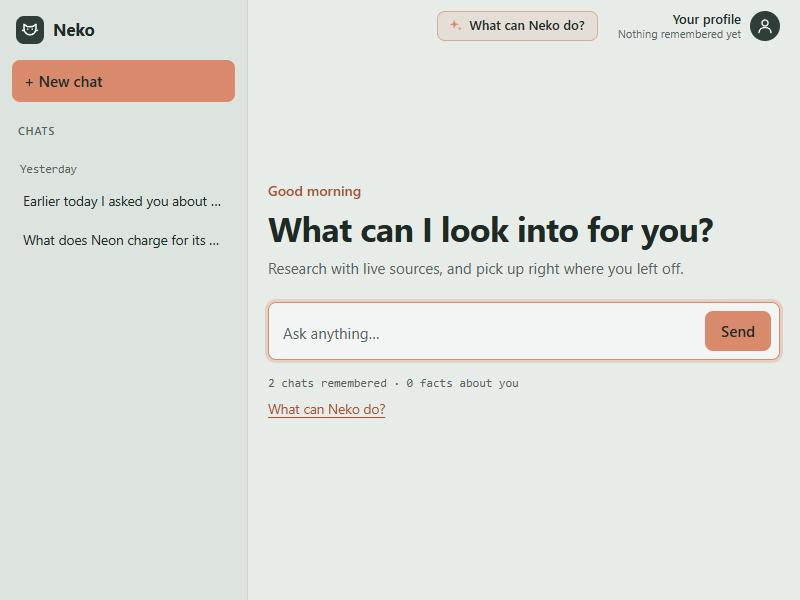
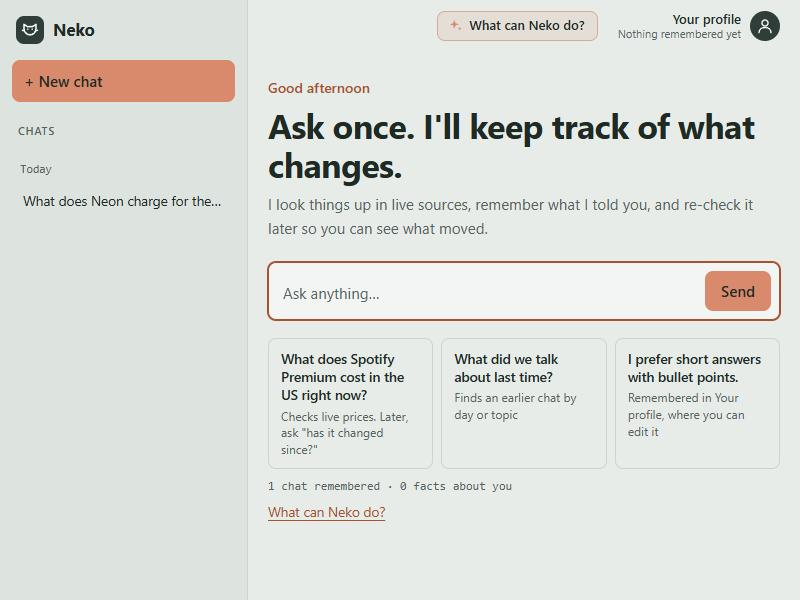
UX Phase 1: truthful storage copy, starter prompts, phone and keyboard fixes
- Help panel now says chats live on Neko's server under an anonymous,
  browser-tied account, and how to delete them (it said "this computer").
- Three one-click starter prompts on the landing screen (live price,
  memory, personal preference) and a headline that leads with
  "Ask once. I'll keep track of what changes."
- Phones: 44 px touch targets, drawer fully on-screen at 375 px and out
  of the tab order when closed, avatar-only header, top-aligned hero.
- Visible :focus-visible ring in both themes, labelled message box,
  aria-expanded and Escape on the drawer, a real <main> landmark,
  chat title as h1, prefers-reduced-motion respected.

axe-core: 0 issues across landing, chat, drawer and dialogs at 1280
and 375 px, light and dark. npm test (145) and typecheck pass.

diff --git a/public/style.css b/public/style.css
@@ -8,6 +8,7 @@
   --b-unv-bg: #dde3df; --b-unv-fg: #3f4d46; --b-none-bg: #d6e2ea; --b-none-fg: #26414f;
   --font: Inter, ui-sans-serif, system-ui, -apple-system, "Segoe UI", Roboto, "Helvetica Neue", sans-serif;
   --mono: ui-monospace, "SF Mono", Menlo, Consolas, monospace;
+  --focus: #a8512f; /* focus ring: 3:1 or more against every light surface */
   --r: 8px;
 }
 :root[data-theme="dark"] {
@@ -16,10 +17,14 @@
   --accent: #d98a6c; --accent-fg: #141a17; --link: #e8a58a; --user: #3a5046; --user-fg: #f2f5f3; --err: #f2998e;
   --b-changed-bg: #4a2e1f; --b-changed-fg: #f2b79b; --b-same-bg: #1f3a2c; --b-same-fg: #a7e3bd;
   --b-unv-bg: #26302b; --b-unv-fg: #b4c2ba; --b-none-bg: #1c2f3b; --b-none-fg: #9cc9e0;
+  --focus: #e8a58a;
 }
 * { box-sizing: border-box; }
 body { margin: 0; height: 100vh; background: var(--bg); color: var(--fg); font: 15px/1.6 var(--font); -webkit-font-smoothing: antialiased; }
 button { font: inherit; color: inherit; cursor: pointer; }
+/* Keyboard focus: one clear ring on every control, in both themes (WCAG 2.4.7). Mouse clicks don't show it. */
+:focus-visible { outline: 2px solid var(--focus); outline-offset: 2px; }
+.sr-only { position: absolute; width: 1px; height: 1px; padding: 0; margin: -1px; overflow: hidden; clip: rect(0 0 0 0); white-space: nowrap; border: 0; }
 #app { display: flex; height: 100%; }
 
 /* ---- sidebar ---- */
@@ -43,14 +48,14 @@ button { font: inherit; color: inherit; cursor: pointer; }
 .row-action:hover { color: var(--fg); background: var(--line); }
 .row:hover .row-action, .row:focus-within .row-action, .row.active .row-action { display: block; }
 @media (hover: none) { .row-action { display: block; } }
-.rename { flex: 1; min-width: 0; font: inherit; font-size: 13.5px; padding: 6px 9px; border: 1px solid var(--accent); border-radius: var(--r); background: var(--card); color: var(--fg); outline: none; }
+.rename { flex: 1; min-width: 0; font: inherit; font-size: 13.5px; padding: 6px 9px; border: 1px solid var(--accent); border-radius: var(--r); background: var(--card); color: var(--fg); }
 .empty-note { color: var(--muted); font-size: 13px; padding: 8px 10px; }
 
 /* ---- main column ---- */
 #main { position: relative; flex: 1; min-width: 0; display: flex; flex-direction: column; align-items: center; height: 100%; }
 #topbar { width: 100%; flex: none; height: 52px; display: flex; align-items: center; gap: 10px; padding: 0 14px 0 16px; background: var(--bg); border-bottom: 1px solid var(--line); }
 #menu { display: none; border: 0; background: transparent; font-size: 20px; padding: 2px 8px; }
-#chat-title { flex: 1; min-width: 0; font-weight: 600; font-size: 14px; white-space: nowrap; overflow: hidden; text-overflow: ellipsis; }
+#chat-title { flex: 1; min-width: 0; margin: 0; font-weight: 600; font-size: 14px; line-height: 1.6; white-space: nowrap; overflow: hidden; text-overflow: ellipsis; }
 #open-profile { display: flex; align-items: center; gap: 9px; border: 0; background: transparent; padding: 4px 6px 4px 10px; border-radius: var(--r); }
 #open-profile:hover { background: var(--hover); }
 .who { display: flex; flex-direction: column; align-items: flex-end; line-height: 1.2; }
@@ -65,21 +70,30 @@ button { font: inherit; color: inherit; cursor: pointer; }
 
 #log { flex: 1; overflow-y: auto; width: 100%; max-width: 780px; padding: 18px 20px 12px; order: 1; }
 #form { order: 2; width: min(780px, calc(100% - 40px)); margin: 0 auto 6px; display: flex; align-items: flex-end; gap: 8px; padding: 8px 8px 8px 14px; background: var(--card); border: 1px solid var(--line); border-radius: var(--r); }
-#form:focus-within { border-color: var(--accent); box-shadow: 0 0 0 3px color-mix(in srgb, var(--accent) 28%, transparent); }
-textarea { flex: 1; resize: none; border: 0; outline: 0; background: transparent; color: var(--fg); font: inherit; max-height: 180px; padding: 6px 0; }
+#form:focus-within { border-color: var(--focus); box-shadow: 0 0 0 1px var(--focus); }
+#form textarea:focus-visible { outline: none; } /* the whole box shows the ring instead */
+textarea { flex: 1; resize: none; border: 0; background: transparent; color: var(--fg); font: inherit; max-height: 180px; padding: 6px 0; }
 textarea::placeholder { color: var(--muted); }
 #send { border: 0; border-radius: var(--r); background: var(--accent); color: var(--accent-fg); font-weight: 600; padding: 8px 16px; }
 #send:disabled { opacity: 0.45; cursor: default; }
-#status-line { order: 3; display: none; width: min(680px, calc(100% - 40px)); margin: 10px 0 0; font: 12px var(--mono); color: var(--muted); }
+#status-line { order: 4; display: none; width: min(680px, calc(100% - 40px)); margin: 10px 0 0; font: 12px var(--mono); color: var(--muted); }
 
 #main.empty { justify-content: center; }
 #main.empty #topbar { position: absolute; top: 0; left: 0; right: 0; background: transparent; border-bottom-color: transparent; }
 #main.empty #chat-title { visibility: hidden; } /* keeps its space, so the buttons stay at the right */
 #main.empty #landing { display: block; }
 #main.empty #status-line { display: block; }
+#main.empty #starters { display: grid; }
 #main.empty #log { display: none; }
 #main.empty #form { width: min(680px, calc(100% - 40px)); }
 #main:not(.empty) #form { margin-bottom: 16px; }
+
+/* ---- starter prompts: one click sends; each shows a different thing Neko does ---- */
+#starters { order: 3; display: none; grid-template-columns: repeat(3, minmax(0, 1fr)); gap: 8px; width: min(680px, calc(100% - 40px)); margin: 12px 0 0; }
+.starter { display: flex; flex-direction: column; gap: 4px; min-height: 44px; padding: 10px 12px; text-align: left; border: 1px solid var(--line); border-radius: var(--r); background: transparent; }
+.starter:hover { background: var(--card); border-color: color-mix(in srgb, var(--accent) 55%, var(--line)); }
+.st-q { font-size: 13.5px; font-weight: 600; line-height: 1.35; }
+.st-hint { font-size: 12px; line-height: 1.4; color: var(--muted); }
 
 /* ---- messages: your question is a bubble on the right; the answer is a card with its evidence underneath ---- */
 .day { text-align: center; color: var(--muted); font: 12px var(--mono); margin: 16px 0 12px; }
@@ -116,7 +130,7 @@ textarea::placeholder { color: var(--muted); }
 .features h3 { margin: 0 0 3px; font-size: 14.5px; font-weight: 600; }
 .features p { margin: 0; font-size: 13.5px; line-height: 1.6; color: var(--muted); }
 .features .badge { font-size: 11px; margin-right: 2px; }
-.link-btn { order: 4; display: none; width: min(680px, calc(100% - 40px)); margin: 8px 0 0; padding: 0; border: 0; background: transparent; color: var(--link); font-size: 13.5px; text-align: left; text-decoration: underline; text-underline-offset: 3px; }
+.link-btn { order: 5; display: none; width: min(680px, calc(100% - 40px)); margin: 8px 0 0; padding: 0; border: 0; background: transparent; color: var(--link); font-size: 13.5px; text-align: left; text-decoration: underline; text-underline-offset: 3px; }
 #main.empty .link-btn { display: block; }
 /* the "What can Neko do?" pill in the top bar: a soft accent tint and a sparkle, so it invites a click */
 .pill-btn { flex: none; display: inline-flex; align-items: center; gap: 6px; height: 30px; padding: 0 12px 0 10px; border-radius: var(--r); border: 1px solid color-mix(in srgb, var(--accent) 55%, var(--line)); background: color-mix(in srgb, var(--accent) 14%, transparent); color: var(--fg); font-size: 13px; font-weight: 600; white-space: nowrap; }
@@ -136,7 +150,7 @@ textarea::placeholder { color: var(--muted); }
 .pf-row { display: flex; align-items: center; gap: 8px; padding: 6px 0; border-top: 1px solid var(--line); }
 .pf-key { width: 110px; flex: none; font-size: 13px; color: var(--muted); }
 .pf-row input { flex: 1; min-width: 0; border: 1px solid transparent; border-radius: 6px; padding: 6px 8px; background: transparent; color: var(--fg); font: inherit; }
-.pf-row input:hover, .pf-row input:focus { border-color: var(--line); outline: 0; }
+.pf-row input:hover, .pf-row input:focus { border-color: var(--line); }
 .pf-del { border: 0; background: transparent; color: var(--muted); font-size: 18px; padding: 0 6px; }
 .pf-del:hover { color: var(--err); }
 .dlg-foot { margin-top: 14px; text-align: right; }
@@ -146,12 +160,34 @@ textarea::placeholder { color: var(--muted); }
 /* ---- phones: the chat list slides over the page ---- */
 #scrim { display: none; }
 @media (max-width: 760px) {
-  #sidebar { position: fixed; z-index: 3; inset: 0 auto 0 0; transform: translateX(-100%); transition: transform 0.2s; }
-  .nav-open #sidebar { transform: none; }
+  /* The drawer sits fully off-screen when closed (and out of the tab order), and fully on-screen when open. */
+  #sidebar { position: fixed; z-index: 3; top: 0; bottom: 0; left: 0; width: min(300px, 86vw); padding-left: max(12px, env(safe-area-inset-left)); overflow-y: auto;
+    transform: translateX(-100%); visibility: hidden; transition: transform 0.2s, visibility 0s 0.2s; }
+  .nav-open #sidebar { transform: none; visibility: visible; transition: transform 0.2s; }
   .nav-open #scrim { display: block; position: fixed; inset: 0; background: rgb(0 0 0 / 0.45); z-index: 2; }
-  #menu { display: inline-block; }
-  #landing h1 { font-size: 28px; }
-  #who-sub { display: none; }
-  .pill-btn { padding: 0 8px; }
+
+  /* Touch targets: 44 px or more on a phone */
+  #topbar { height: 56px; gap: 6px; padding: 0 8px; }
+  #menu { display: grid; place-items: center; width: 44px; height: 44px; padding: 0; border-radius: var(--r); }
+  .pill-btn { width: 44px; height: 44px; padding: 0; justify-content: center; }
   .pill-btn span { display: none; } /* icon only on a phone */
+  #open-profile { min-width: 44px; min-height: 44px; padding: 7px; justify-content: center; }
+  .who { display: none; } /* avatar only, so the chat title gets the room */
+  #send { min-height: 44px; }
+  .link-btn { display: none; min-height: 44px; }
+  #main.empty .link-btn { display: flex; align-items: center; margin-top: 4px; }
+  #new-chat, #theme-seg button, #profile-clear { min-height: 44px; }
+  #profile-close, #about-close { min-width: 44px; min-height: 44px; }
+  .item { padding: 11px 10px; }
+  .row-action { width: 40px; height: 40px; padding: 11px; }
+  .pf-del { min-width: 44px; min-height: 44px; }
+
+  /* Landing: start at the top, not in the middle; the starters fill the space below the input */
+  #main.empty { justify-content: flex-start; overflow-y: auto; }
+  #main.empty #landing { margin-top: 80px; }
+  #landing h1 { font-size: 28px; }
+  #starters { grid-template-columns: 1fr; }
+}
+@media (prefers-reduced-motion: reduce) {
+  *, *::before, *::after { transition-duration: 0s !important; transition-delay: 0s !important; animation: none !important; scroll-behavior: auto !important; }
 }

diff --git a/public/index.html b/public/index.html
@@ -30,10 +30,10 @@
     </aside>
     <div id="scrim"></div>
 
-    <section id="main" class="empty">
+    <main id="main" class="empty">
       <header id="topbar">
-        <button id="menu" type="button" aria-label="Show chat history">☰</button>
-        <div id="chat-title"></div>
+        <button id="menu" type="button" aria-label="Show chat history" aria-controls="sidebar" aria-expanded="false">☰</button>
+        <h1 id="chat-title"></h1>
         <button id="open-about-top" type="button" class="pill-btn" aria-label="What can Neko do?" title="See what Neko can do">
           <svg viewBox="0 0 24 24" width="15" height="15" fill="currentColor" aria-hidden="true"><path d="M10 3l1.9 5.4L17.3 10l-5.4 1.9L10 17.3 8.1 11.9 2.7 10l5.4-1.6L10 3z"/><path d="M19 14l.8 2.2L22 17l-2.2.8L19 20l-.8-2.2L16 17l2.2-.8L19 14z"/></svg>
           <span>What can Neko do?</span>
@@ -49,19 +49,34 @@
 
       <div id="landing">
         <p id="greeting" class="eyebrow">Hello</p>
-        <h1>What can I look into for you?</h1>
-        <p class="sub">Research with live sources, and pick up right where you left off.</p>
+        <h1>Ask once. I'll keep track of what changes.</h1>
+        <p class="sub">I look things up in live sources, remember what I told you, and re-check it later so you can see what moved.</p>
       </div>
 
-      <main id="log" aria-live="polite"></main>
+      <div id="log" role="log" aria-live="polite" aria-label="Conversation"></div>
 
       <form id="form">
+        <label for="input" class="sr-only">Message Neko</label>
         <textarea id="input" rows="1" placeholder="Ask anything…" autofocus></textarea>
-        <button id="send" type="submit" aria-label="Send">Send</button>
+        <button id="send" type="submit">Send</button>
       </form>
+      <div id="starters" role="group" aria-label="Try one of these">
+        <button type="button" class="starter" data-prompt="What does Spotify Premium cost in the US right now?">
+          <span class="st-q">What does Spotify Premium cost in the US right now?</span>
+          <span class="st-hint">Checks live prices. Later, ask "has it changed since?"</span>
+        </button>
+        <button type="button" class="starter" data-prompt="What did we talk about last time?">
+          <span class="st-q">What did we talk about last time?</span>
+          <span class="st-hint">Finds an earlier chat by day or topic</span>
+        </button>
+        <button type="button" class="starter" data-prompt="I prefer short answers with bullet points.">
+          <span class="st-q">I prefer short answers with bullet points.</span>
+          <span class="st-hint">Remembered in Your profile, where you can edit it</span>
+        </button>
+      </div>
       <p id="status-line"></p>
       <button id="open-about" type="button" class="link-btn">What can Neko do?</button>
-    </section>
+    </main>
   </div>
 
   <dialog id="about-dialog" aria-labelledby="about-title">
@@ -92,8 +107,8 @@
         <p>If it has no record of something, or can't confirm it, it tells you instead of guessing.</p>
       </li>
       <li>
-        <h3>Keeps your data with you</h3>
-        <p>Your chats and profile are stored on this computer. Only the questions sent to the model and to search leave it.</p>
+        <h3>Is clear about where your data lives</h3>
+        <p>Your chats and profile are stored on Neko's server, under an anonymous account tied to this browser. There's no sign-up and no email. You can delete any chat from the list, or clear your profile with Forget everything, at any time. To answer, your messages go to the AI model, and only search queries go to web search.</p>
       </li>
     </ul>
   </dialog>

diff --git a/public/app.js b/public/app.js
@@ -427,7 +427,7 @@ function startNewChat() {
   setHash();
   setEmpty(true);
   renderHistory();
-  document.body.classList.remove("nav-open");
+  setNav(false);
   input.focus();
 }
 
@@ -442,7 +442,7 @@ async function openConversation(id) {
   setEmpty(conv.messages.length === 0);
   setHash(id);
   renderHistory();
-  document.body.classList.remove("nav-open");
+  setNav(false);
   log.scrollTop = log.scrollHeight;
 }
 
@@ -548,8 +548,23 @@ $("profile-clear").addEventListener("click", async () => {
   await fetch("/api/profile", { method: "DELETE" });
   await loadProfile();
 });
-$("menu").addEventListener("click", () => document.body.classList.add("nav-open"));
-$("scrim").addEventListener("click", () => document.body.classList.remove("nav-open"));
+// Starter prompts on the landing screen: one click sends a fixed, known prompt (never page-supplied text).
+for (const b of document.querySelectorAll(".starter")) b.addEventListener("click", () => submit(b.dataset.prompt));
+
+// Phone drawer: the menu button reports its state, and Escape or a tap on the scrim closes it.
+const setNav = (open) => {
+  document.body.classList.toggle("nav-open", open);
+  $("menu").setAttribute("aria-expanded", String(open));
+  if (open) $("new-chat").focus();
+};
+$("menu").addEventListener("click", () => setNav(true));
+$("scrim").addEventListener("click", () => setNav(false));
+document.addEventListener("keydown", (e) => {
+  if (e.key === "Escape" && document.body.classList.contains("nav-open")) {
+    setNav(false);
+    $("menu").focus();
+  }
+});
 
 // A reload (or a shared link with #<id>) reopens that chat; otherwise show the landing screen.
 (async function boot() {

diff --git a/DECISIONS.md b/DECISIONS.md
@@ -2,6 +2,16 @@
 
 A running log of what was chosen, what else was on the table, and why. Newest first.
 
+## 2026-11-28 · UX Phase 1: fixes and a first move for new visitors
+
+A UX audit (desktop and phone, measured accessibility, timed turns, a look at Perplexity and ChatGPT) produced a 3-phase roadmap. Phase 1 is the small, must-ship part:
+- **Truthful storage copy.** The help panel still said chats stay "on this computer"; since Postgres they live on Neko's server under an anonymous, cookie-tied account. It now says that, and how to delete them.
+- **Starter prompts.** Three one-click buttons on the landing screen, each showing a different capability: a live price lookup that invites "has it changed since?" later, a memory question, and a personal preference. The headline now leads with the product's angle: "Ask once. I'll keep track of what changes."
+- **Phones.** Every control is at least 44 px; the history drawer is a fixed `min(300px, 86vw)` and hidden from the tab order when closed; the header shows only the avatar so the chat title gets the room; the landing hero sits at the top.
+- **Keyboard and screen readers.** One `:focus-visible` ring in both themes (a darker clay in light mode, since the accent itself is under 3:1 on the background), a label on the message box, `aria-expanded` and Escape on the drawer, and a real `<main>` landmark with the chat title as the page's h1. `prefers-reduced-motion` turns transitions off.
+
+axe-core (WCAG 2.2 AA plus best practice) reports 0 issues on the landing screen, a chat, the drawer and both dialogs, at 1280 and 375 px, light and dark. The demo GIF still shows the old landing headline; re-record it when the model API is reachable.
+
 ## 2026-11-27 · Task 5: README, demo, and a bug the demo found
 
 **The README leads with proof.** A reviewer skims for about 30 seconds, so the first screen holds the pitch, the live link, a 20-second demo GIF, and a table of what was engineered, with numbers that link to how they were measured. Setup and configuration moved down.
